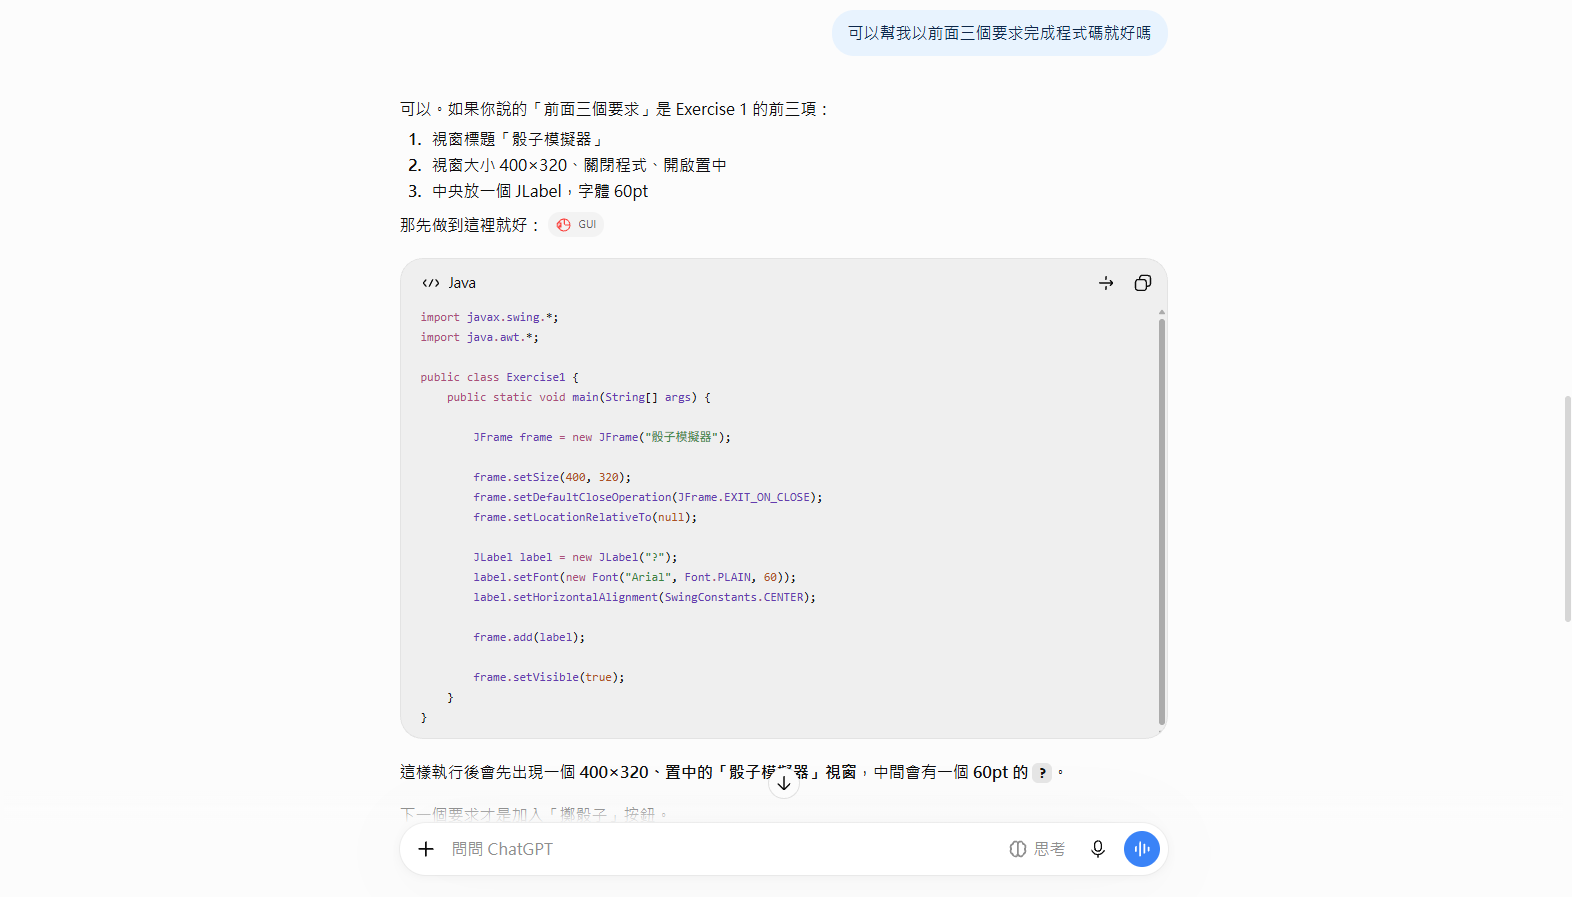
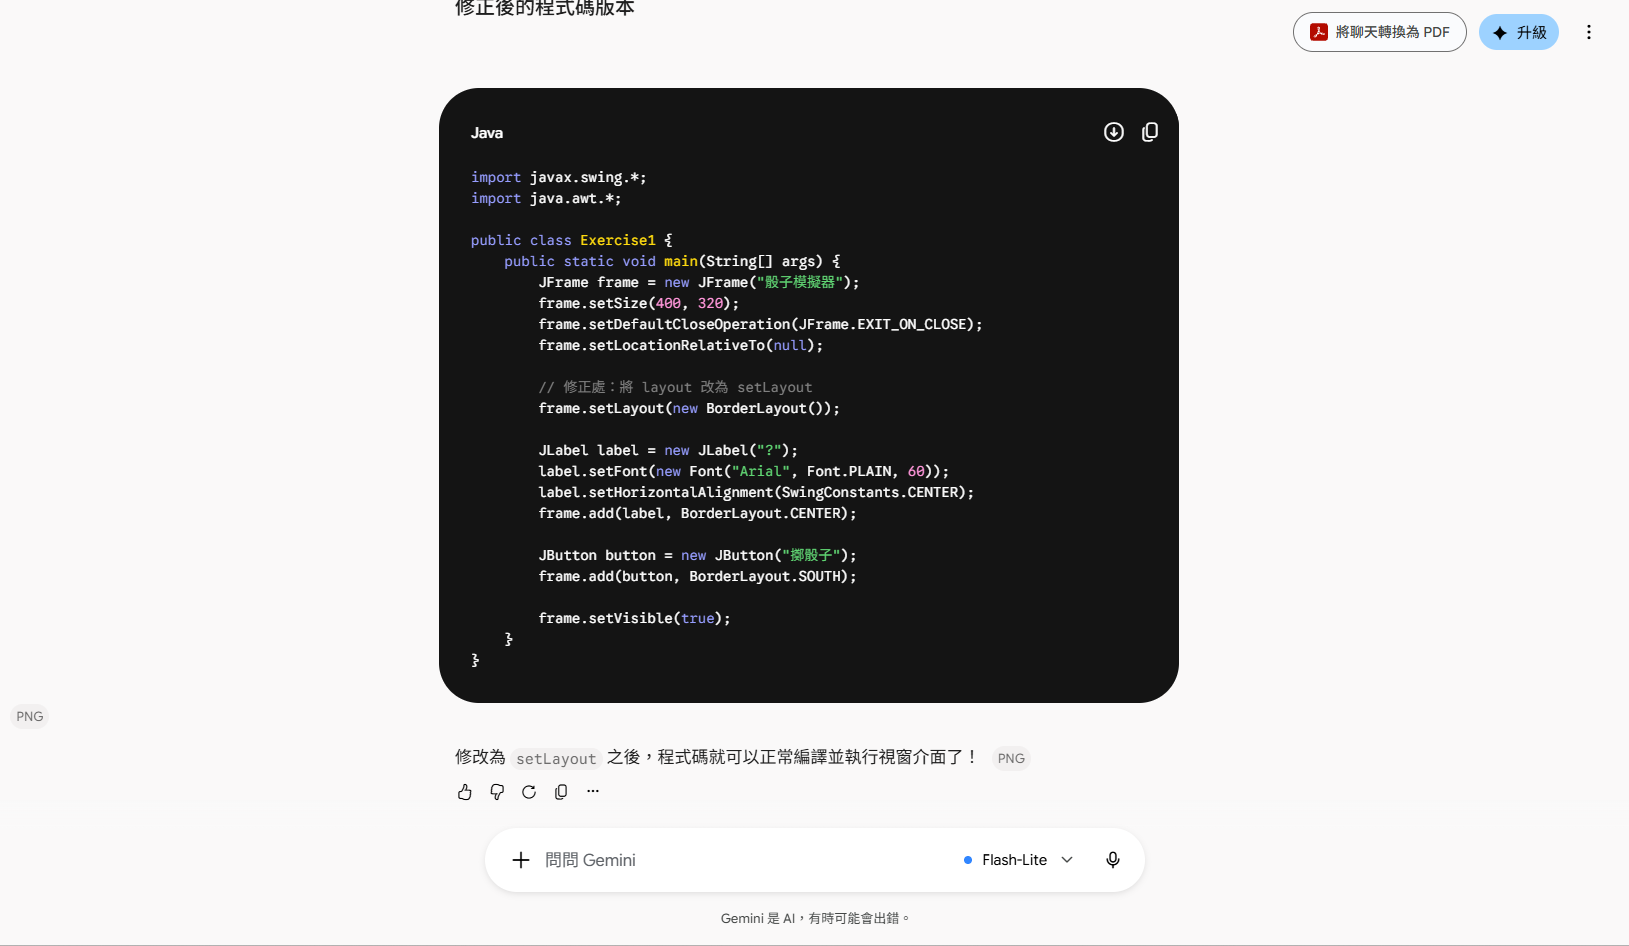
Exercise1_2

diff --git a/Exercise1_2.java b/Exercise1_2.java
@@ -1,0 +1,24 @@
+import javax.swing.*;
+import java.awt.*;
+
+public class Exercise1_2{
+    public static void main(String[] args) {
+        JFrame frame = new JFrame("骰子模擬器");
+        frame.setSize(400, 320);
+        frame.setDefaultCloseOperation(JFrame.EXIT_ON_CLOSE);
+        frame.setLocationRelativeTo(null);
+        
+        // 修正處：將 layout 改為 setLayout
+        frame.setLayout(new BorderLayout());
+        
+        JLabel label = new JLabel("?");
+        label.setFont(new Font("Arial", Font.PLAIN, 60));
+        label.setHorizontalAlignment(SwingConstants.CENTER);
+        frame.add(label, BorderLayout.CENTER);
+        
+        JButton button = new JButton("擲骰子");
+        frame.add(button, BorderLayout.SOUTH);
+        
+        frame.setVisible(true);
+    }
+}

diff --git a/Exercise1_2.md b/Exercise1_2.md
@@ -1,0 +1,2 @@
+![alt text](image.png)
+![alt text](image-1.png)
